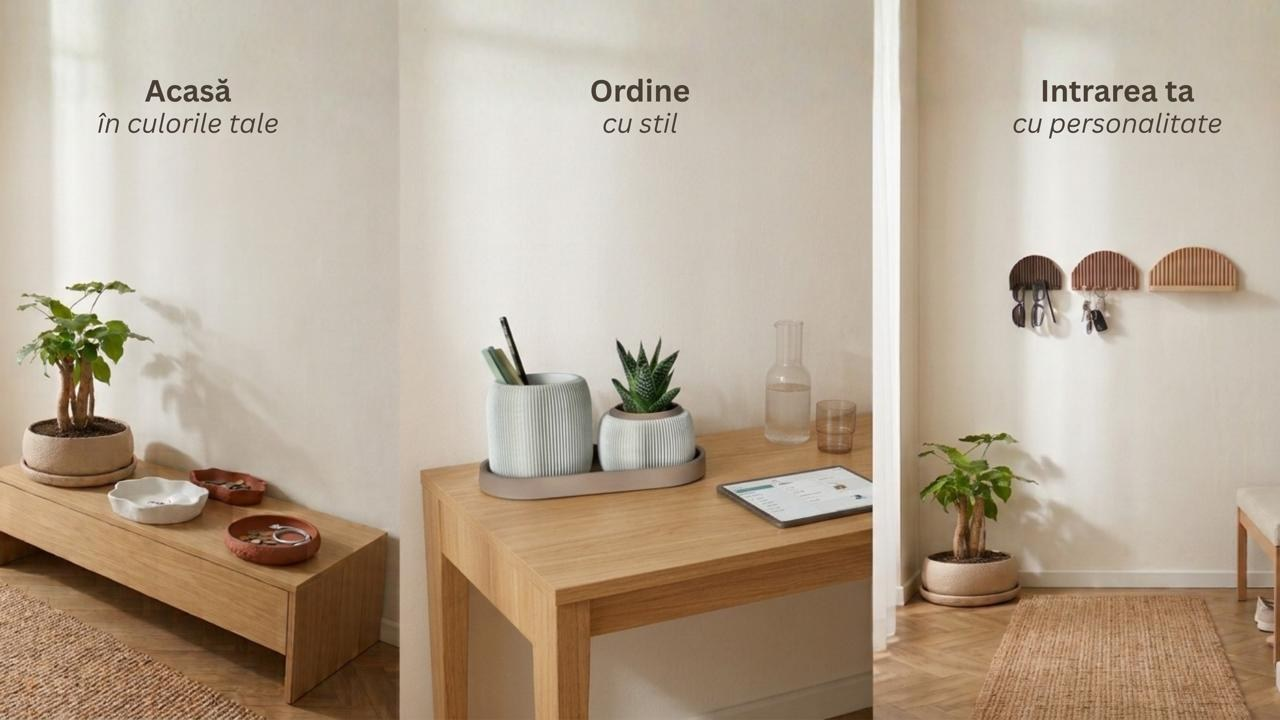
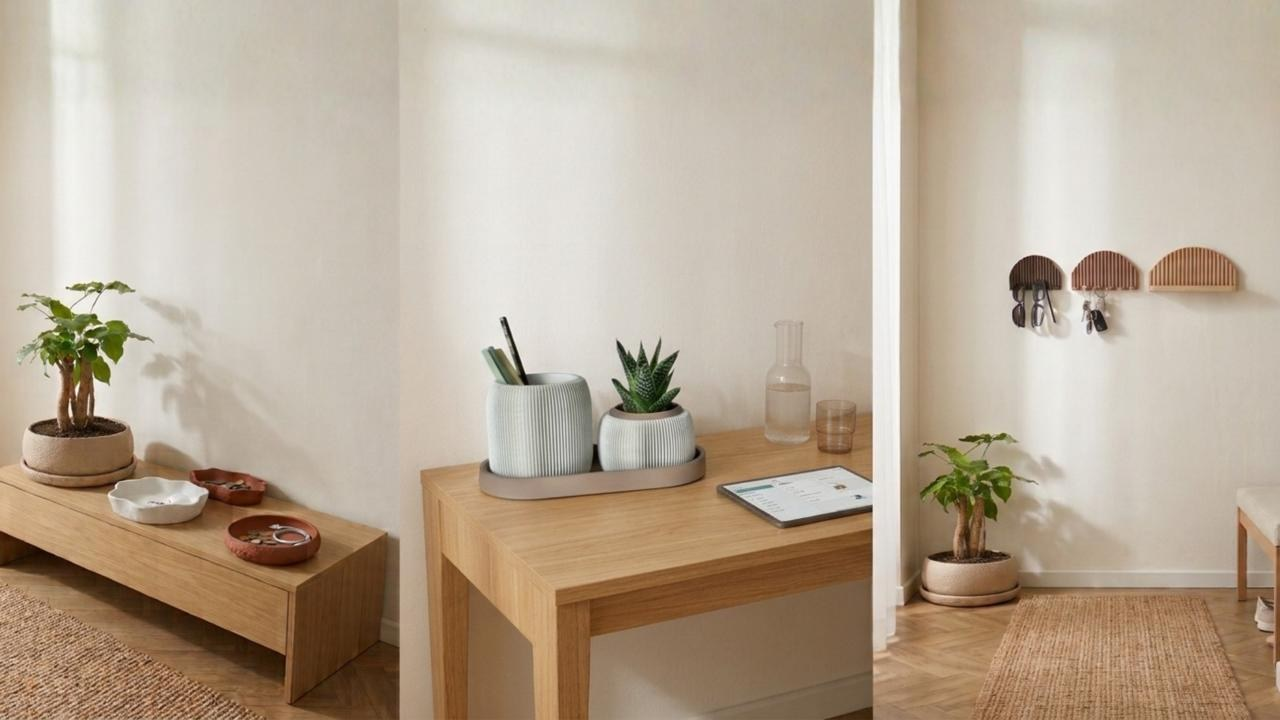
Hero: text-free triptych photo with the three captions as real text (Romanian/English)

Changed region(s): [[0.7812, 0.0917, 0.9688, 0.1833], [0.0625, 0.0917, 0.2188, 0.1833], [0.4688, 0.0917, 0.5625, 0.1833]]

diff --git a/app/[locale]/page.tsx b/app/[locale]/page.tsx
@@ -145,7 +145,7 @@ export default async function Home({ params }: PageProps<"/[locale]">) {
         <div className="relative mx-auto grid max-w-6xl items-center gap-10 px-4 pt-[84px] pb-28 sm:px-6 sm:pt-24 lg:grid-cols-[minmax(0,1.25fr)_minmax(0,1fr)] lg:gap-16">
           {/* gradient frame: champagne gold fading to terracotta */}
           <div className="hero-rise w-full rounded-[1.75rem] bg-gradient-to-br from-gold-300 via-gold-400 to-salamander-400 p-[3px] shadow-[0_6px_18px_rgba(60,40,25,0.14)]">
-            <div className="relative aspect-[16/9] overflow-hidden rounded-[calc(1.75rem-3px)]">
+            <div className="relative aspect-[16/9] overflow-hidden rounded-[calc(1.75rem-3px)] [container-type:inline-size]">
               <Image
                 src="/images/hero-triptych.jpg"
                 alt={t("heroPhotoAlt")}
@@ -154,6 +154,22 @@ export default async function Home({ params }: PageProps<"/[locale]">) {
                 sizes="(min-width: 1024px) 620px, 92vw"
                 className="hero-zoom object-cover object-center"
               />
+              {/* the three captions are real text over the photo, so they follow the
+                  language and stay sharp at any size (about 2.5% of the photo width) */}
+              {[
+                { left: "14.6%", title: t("heroCaption1Title"), sub: t("heroCaption1Sub") },
+                { left: "50%", title: t("heroCaption2Title"), sub: t("heroCaption2Sub") },
+                { left: "87.3%", title: t("heroCaption3Title"), sub: t("heroCaption3Sub") },
+              ].map((caption) => (
+                <p
+                  key={caption.left}
+                  className="pointer-events-none absolute top-[8%] -translate-x-1/2 whitespace-nowrap text-center leading-[1.2] text-taupe-800"
+                  style={{ left: caption.left, fontSize: "clamp(10px, 2.5cqw, 24px)" }}
+                >
+                  <span className="block font-semibold">{caption.title}</span>
+                  <span className="block italic">{caption.sub}</span>
+                </p>
+              ))}
             </div>
           </div>
 
